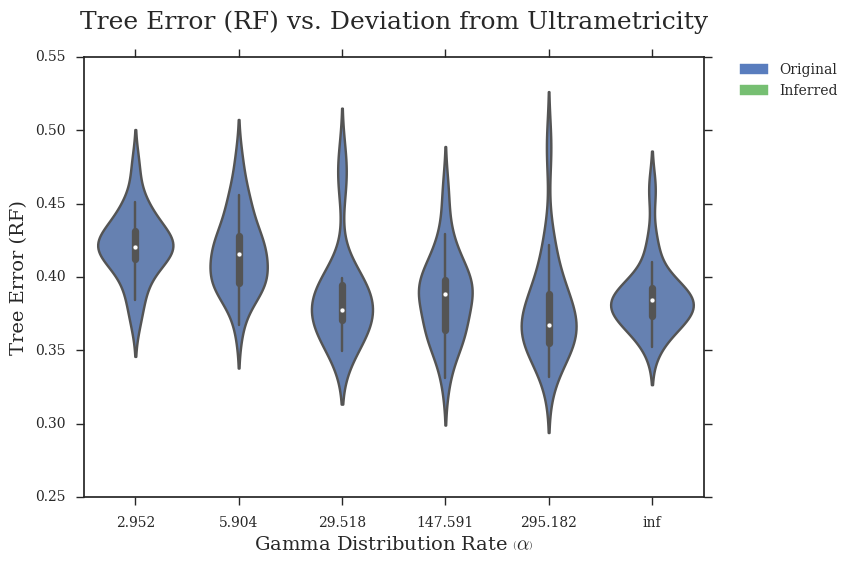
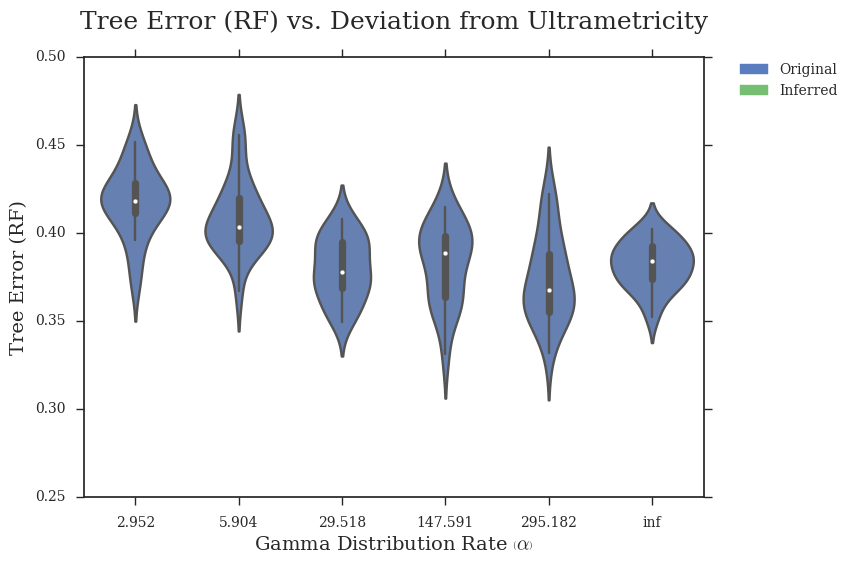
Corrected data

diff --git a/figures/scripts/3_tree-error-rf-vs-parameters.py b/figures/scripts/3_tree-error-rf-vs-parameters.py
@@ -19,51 +19,51 @@ rcParams['font.family'] = 'serif'
 # DATASETS
 # modifying r = lambdaA/lambdaB (with different lambda = lambdaA+lambdaB to keep expected branch length constant)
 r_data = {'r':np.array([-4]*20+[-3]*20+[-2]*20+[-1]*20+[0]*20), # values of r (log-scaled)
-          'RF':np.array([.897,.9525,.9272,.95995,.99815,.88575,.91898,.9547,.91822,.8837,.9115,.93532,.8977,.9765,.915855,.91843,.9247,.91111,.91415,.8968] + # r = 0.0001
-                        [.66145,.667,.6911,.6876,.7166,.69355,.7735,.69375,.7215,.6688,.681,.71,.765,.68185,.66885,.798,.66965,.75175,.7865,.68265] +         # r = 0.001
-                        [.37315,.39425,.3725,.3995,.479,.3756,.395,.3726,.37335,.35715,.38635,.465,.3545,.37955,.34945,.3971,.38635,.3948,.3593,.3653] +      # r = 0.01
-                        [.15855,.16415,.16615,.18365,.1981,.1724,.1644,.1391,.17215,.1997,.18295,.17725,.1755,.1594,.223,.18245,.1941,.17,.18195,.177] +      # r = 0.1
-                        [.12,.1193,.11625,.125,.128,.1335,.1124,.1325,.782,.948,.1223,.1173,.1114,.12385,.11125,.11785,.995,.123,.1285,.998]                  # r = 1
+          'RF':np.array([0.897,0.905025,0.92072,0.905995,0.909815,0.88575,0.91898,0.90547,0.91822,0.8837,0.901105,0.93532,0.8977,0.90765,0.915855,0.91843,0.90247,0.91111,0.910415,0.8968] + # r = 0.0001
+                        [0.66145,0.667,0.6911,0.6876,0.7166,0.69355,0.70735,0.69375,0.70215,0.6688,0.6801,0.7001,0.7065,0.68185,0.66885,0.7098,0.66965,0.75175,0.70865,0.68265] +            # r = 0.001
+                        [0.37315,0.39425,0.37025,0.3995,0.4079,0.3756,0.395,0.3726,0.37335,0.35715,0.38635,0.4065,0.3545,0.37955,0.34945,0.3971,0.38635,0.3948,0.3593,0.3653] +              # r = 0.01
+                        [0.15855,0.16415,0.16615,0.18365,0.1981,0.1724,0.1644,0.1391,0.17215,0.1997,0.18295,0.17725,0.17055,0.1594,0.2023,0.18245,0.1941,0.17,0.18195,0.177] +               # r = 0.1
+                        [0.102,0.1193,0.11625,0.10025,0.1028,0.13035,0.1124,0.10325,0.0782,0.0948,0.1223,0.1173,0.1114,0.12385,0.11125,0.11785,0.0995,0.1203,0.12805,0.0998]                 # r = 1
          ).astype(float)}
 
 # modifying r = lambdaA/lambdaB (with constant lambda = lambdaA + lambdaB)
 r2_data = {'r':np.array([-4]*20+[-3]*20+[-2]*20+[-1]*20+[0]*20), # values of r (log-scaled)
-           'RF':np.array([.794,.8324,.75215,.7813,.85645,.854,.7884,.7934,.874,.814,.8195,.7864,.7773,.7894,.823,.7994,.7934,.772,.7573,.812] +              # r = 0.0001
-                         [.53135,.56625,.5725,.58325,.614,.57525,.5713,.5811,.616,.62735,.64245,.54615,.55945,.5974,.56325,.6185,.565,.58875,.56725,.5586] + # r = 0.001
-                         [.37315,.39425,.3725,.3995,.479,.3756,.395,.3726,.37335,.35715,.38635,.465,.3545,.37955,.34945,.3971,.38635,.3948,.3593,.3653] +    # r = 0.01
-                         [.26925,.2835,.29195,.29485,.289,.2834,.2664,.29245,.29715,.3455,.28255,.2912,.2964,.2895,.383,.3139,.2935,.31225,.28495,.28515] +  # r = 0.1
-                         [.2575,.2535,.28145,.32125,.2951,.3835,.27525,.311,.26855,.2879,.335,.28135,.294,.3115,.267,.2965,.3185,.28325,.2825,.257]          # r = 1
+           'RF':np.array([0.7904,0.8324,0.75215,0.7813,0.85645,0.8054,0.7884,0.7934,0.8074,0.8104,0.8195,0.7864,0.7773,0.7894,0.8023,0.7994,0.7934,0.7702,0.7573,0.8012] +           # r = 0.0001
+                         [0.53135,0.56625,0.5725,0.58325,0.6014,0.57525,0.5713,0.5811,0.6106,0.62735,0.64245,0.54615,0.55945,0.5974,0.56325,0.6185,0.56005,0.58875,0.56725,0.5586] + # r = 0.001
+                         [0.37315,0.39425,0.37025,0.3995,0.4079,0.3756,0.395,0.3726,0.37335,0.35715,0.38635,0.4065,0.3545,0.37955,0.34945,0.3971,0.38635,0.3948,0.3593,0.3653] +     # r = 0.01
+                         [0.26925,0.28035,0.29195,0.29485,0.289,0.2834,0.2664,0.29245,0.29715,0.30455,0.28255,0.2912,0.2964,0.2895,0.3083,0.3139,0.29035,0.31225,0.28495,0.28515] +  # r = 0.1
+                         [0.2575,0.25035,0.28145,0.32125,0.2951,0.30835,0.27525,0.3011,0.26855,0.2879,0.30305,0.28135,0.2904,0.31105,0.267,0.29065,0.30185,0.28325,0.28025,0.257]    # r = 1
           ).astype(float)}
 
 # modifying lambda = lambdaA + lambdaB
 l_data = {'lambda':np.array([33.866]*20+[84.664]*20+[169.328]*20+[338.655]*20+[846.638]*20),
-          'RF':np.array([.3631,.318,.32665,.33285,.3579,.3499,.342,.33565,.39,.3571,.389,.3671,.34285,.321,.379,.3159,.2959,.322,.39,.32265] +           # lambda = 33.86550309051126
-                        [.331,.36275,.31375,.338,.382,.3275,.31345,.281,.33665,.33755,.36145,.328,.3285,.334,.31575,.34255,.3245,.35755,.325,.324] +     # lambda = 84.66375772627816
-                        [.37315,.39425,.3725,.3995,.479,.3756,.395,.3726,.37335,.35715,.38635,.465,.3545,.37955,.34945,.3971,.38635,.3948,.3593,.3653] + # lambda = 169.32751545255631
-                        [.525,.539,.48125,.513,.4868,.51635,.49665,.5192,.4519,.49315,.4857,.474,.4684,.4994,.4765,.5275,.4598,.49255,.49445,.4515] +    # lambda = 338.65503090511262
-                        [.65965,.66925,.6423,.64885,.68815,.651,.68,.6545,.6474,.69925,.6665,.6534,.6322,.6666,.65965,.6452,.6575,.65555,.67875,.6755]   # lambda = 846.63757726278155
+          'RF':np.array([0.3631,0.318,0.32665,0.33285,0.3579,0.3499,0.342,0.33565,0.3009,0.3571,0.3089,0.3671,0.34285,0.321,0.3079,0.3159,0.2959,0.322,0.3009,0.32265] +        # lambda = 33.86550309051126
+                        [0.331,0.36275,0.31375,0.338,0.3082,0.32075,0.31345,0.2801,0.33665,0.33755,0.36145,0.328,0.3285,0.334,0.31575,0.34255,0.32045,0.35755,0.325,0.3024] +   # lambda = 84.66375772627816
+                        [0.37315,0.39425,0.37025,0.3995,0.4079,0.3756,0.395,0.3726,0.37335,0.35715,0.38635,0.4065,0.3545,0.37955,0.34945,0.3971,0.38635,0.3948,0.3593,0.3653] + # lambda = 169.32751545255631
+                        [0.525,0.5309,0.48125,0.5103,0.4868,0.51635,0.49665,0.5192,0.4519,0.49315,0.4857,0.474,0.4684,0.4994,0.4765,0.50275,0.4598,0.49255,0.49445,0.45015] +   # lambda = 338.65503090511262
+                        [0.65965,0.66925,0.6423,0.64885,0.68815,0.651,0.68,0.65045,0.6474,0.69925,0.6665,0.6534,0.6322,0.6666,0.65965,0.6452,0.65705,0.65555,0.67875,0.6755]    # lambda = 846.63757726278155
          ).astype(float)}
 
 # modifying sequence length
 k_data = {'length':np.array([50]*20+[100]*20+[200]*20+[300]*20+[600]*20+[1200]*20+[2400]*20+[4800]*20), # values of length
-          'RF':np.array([.7745,.7954,.7778,.7763,.7989,.78115,.7745,.7914,.72955,.7962,.7691,.79815,.792,.77555,.7581,.7583,.895,.7644,.76895,.79525] +   # length = 50
-                        [.6435,.621,.64675,.6294,.61235,.6452,.6555,.63375,.6375,.6575,.6253,.64825,.64485,.62945,.67165,.6381,.613,.6241,.6165,.65695] + # length = 100
-                        [.458,.4718,.49245,.46975,.45675,.47835,.5194,.4673,.4594,.4745,.46545,.45465,.4382,.4952,.44265,.4987,.49975,.595,.51,.45685] +  # length = 200
-                        [.37315,.39425,.3725,.3995,.479,.3756,.395,.3726,.37335,.35715,.38635,.465,.3545,.37955,.34945,.3971,.38635,.3948,.3593,.3653] +  # length = 300
-                        [.2457,.24585,.2446,.24895,.2743,.25525,.2337,.251,.2695,.24525,.2845,.24735,.258,.26545,.2578,.26125,.2223,.2739,.2548,.2594] +  # length = 600
-                        [.1385,.13835,.1534,.1534,.15855,.1815,.1674,.1634,.1654,.1846,.1694,.1624,.165,.1671,.1655,.1595,.1714,.1595,.1725,.1625] +      # length = 1200
-                        [.1725,.1825,.163,.1625,.93,.943,.893,.93,.11225,.93,.812,.832,.9425,.953,.8525,.993,.963,.1425,.113,.752] +                      # length = 2400
-                        [.6215,.615,.62,.572,.5815,.615,.632,.7415,.7315,.461,.642,.622,.682,.682,.632,.622,.622,.5515,.6115,.682]                        # length = 4800
+          'RF':np.array([0.77405,0.7954,0.7778,0.7763,0.7989,0.78115,0.77405,0.7914,0.72955,0.7962,0.7691,0.79815,0.7902,0.77555,0.7581,0.7583,0.8095,0.7644,0.76895,0.79525] +     # length = 50
+                        [0.6435,0.6201,0.64675,0.6294,0.61235,0.6452,0.65055,0.63375,0.63705,0.65075,0.6253,0.64825,0.64485,0.62945,0.67165,0.6381,0.6013,0.6241,0.61605,0.65695] + # length = 100
+                        [0.4508,0.4718,0.49245,0.46975,0.45675,0.47835,0.5194,0.4673,0.4594,0.47045,0.46545,0.45465,0.4382,0.4952,0.44265,0.4987,0.49975,0.50905,0.501,0.45685] +   # length = 200
+                        [0.37315,0.39425,0.37025,0.3995,0.4079,0.3756,0.395,0.3726,0.37335,0.35715,0.38635,0.4065,0.3545,0.37955,0.34945,0.3971,0.38635,0.3948,0.3593,0.3653] +     # length = 300
+                        [0.2457,0.24585,0.2446,0.24895,0.2743,0.25525,0.2337,0.2051,0.26905,0.24525,0.28045,0.24735,0.2508,0.26545,0.2578,0.26125,0.2223,0.2739,0.2548,0.2594] +    # length = 600
+                        [0.1385,0.13835,0.1534,0.1534,0.15855,0.18105,0.1674,0.1634,0.1654,0.1846,0.1694,0.1624,0.16005,0.1671,0.16055,0.15095,0.1714,0.1595,0.1725,0.1625] +       # length = 1200
+                        [0.10725,0.10825,0.1063,0.10625,0.0903,0.0943,0.0893,0.0903,0.11225,0.0903,0.0812,0.0832,0.09425,0.0953,0.08525,0.0993,0.0963,0.10425,0.1013,0.0752] +      # length = 2400
+                        [0.06215,0.06015,0.0602,0.0572,0.05815,0.06015,0.0632,0.07415,0.07315,0.0461,0.0642,0.0622,0.0682,0.0682,0.0632,0.0622,0.0622,0.05515,0.06115,0.0682]       # length = 4800
              ).astype(float)}
 
 # modifying deviation from ultrametricity
 g_data = {'gammarate':np.array([2.952]*20+[5.904]*20+[29.518]*20+[147.591]*20+[295.182]*20+[float('inf')]*20),
-          'RF':np.array([.41725,.43145,.4223,.41265,.4316,.4441,.42755,.3845,.41855,.4183,.4445,.41245,.475,.3714,.4224,.4,.45145,.427,.41735,.396] +     # gamma = 2.95181735298926
-                        [.417,.3961,.39445,.39655,.4254,.39275,.42315,.445,.478,.424,.3673,.39365,.39815,.41175,.414,.45175,.4345,.45575,.3931,.4191] +   # gamma = 5.90363470597852
-                        [.37315,.39425,.3725,.3995,.479,.3756,.395,.3726,.37335,.35715,.38635,.465,.3545,.37955,.34945,.3971,.38635,.3948,.3593,.3653] +  # gamma = 29.518173529892621
-                        [.3578,.3814,.36415,.331,.35295,.41345,.3951,.4149,.3967,.384,.39585,.398,.3693,.457,.3632,.3576,.38825,.429,.38875,.3983] +      # gamma = 147.590867649463
-                        [.365,.3683,.38515,.35425,.3955,.3646,.33185,.38665,.39235,.374,.42215,.3831,.3638,.4885,.36685,.418,.34975,.35415,.3489,.3556] + # gamma = 295.181735298926
-                        [.41,.37855,.36955,.424,.37725,.38615,.35245,.3933,.3942,.3745,.38445,.3762,.3925,.37115,.46,.38395,.38695,.368,.38755,.36195]    # gamma = infinity
+          'RF':np.array([0.41725,0.43145,0.4223,0.41265,0.4316,0.4441,0.42755,0.38405,0.41855,0.4183,0.44405,0.41245,0.4075,0.3714,0.4224,0.4,0.45145,0.4207,0.41735,0.396] +     # gamma = 2.95181735298926
+                        [0.4107,0.3961,0.39445,0.39655,0.4254,0.39275,0.42315,0.4045,0.4078,0.4024,0.3673,0.39365,0.39815,0.41175,0.4014,0.45175,0.43045,0.45575,0.3931,0.4191] + # gamma = 5.90363470597852
+                        [0.37315,0.39425,0.37025,0.3995,0.4079,0.3756,0.395,0.3726,0.37335,0.35715,0.38635,0.4065,0.3545,0.37955,0.34945,0.3971,0.38635,0.3948,0.3593,0.3653] +   # gamma = 29.518173529892621
+                        [0.3578,0.3814,0.36415,0.331,0.35295,0.41345,0.3951,0.4149,0.3967,0.3804,0.39585,0.398,0.3693,0.4057,0.3632,0.3576,0.38825,0.4029,0.38875,0.3983] +       # gamma = 147.590867649463
+                        [0.3605,0.3683,0.38515,0.35425,0.39505,0.3646,0.33185,0.38665,0.39235,0.3704,0.42215,0.3831,0.3638,0.40885,0.36685,0.418,0.34975,0.35415,0.3489,0.3556] + # gamma = 295.181735298926
+                        [0.4001,0.37855,0.36955,0.4024,0.37725,0.38615,0.35245,0.3933,0.3942,0.3745,0.38445,0.3762,0.39205,0.37115,0.4006,0.38395,0.38695,0.368,0.38755,0.36195]  # gamma = infinity
              ).astype(float)}
 
 # plot tree error (RF) vs. r (with different lambda = lambdaA+lambdaB to keep expected branch length constant)
